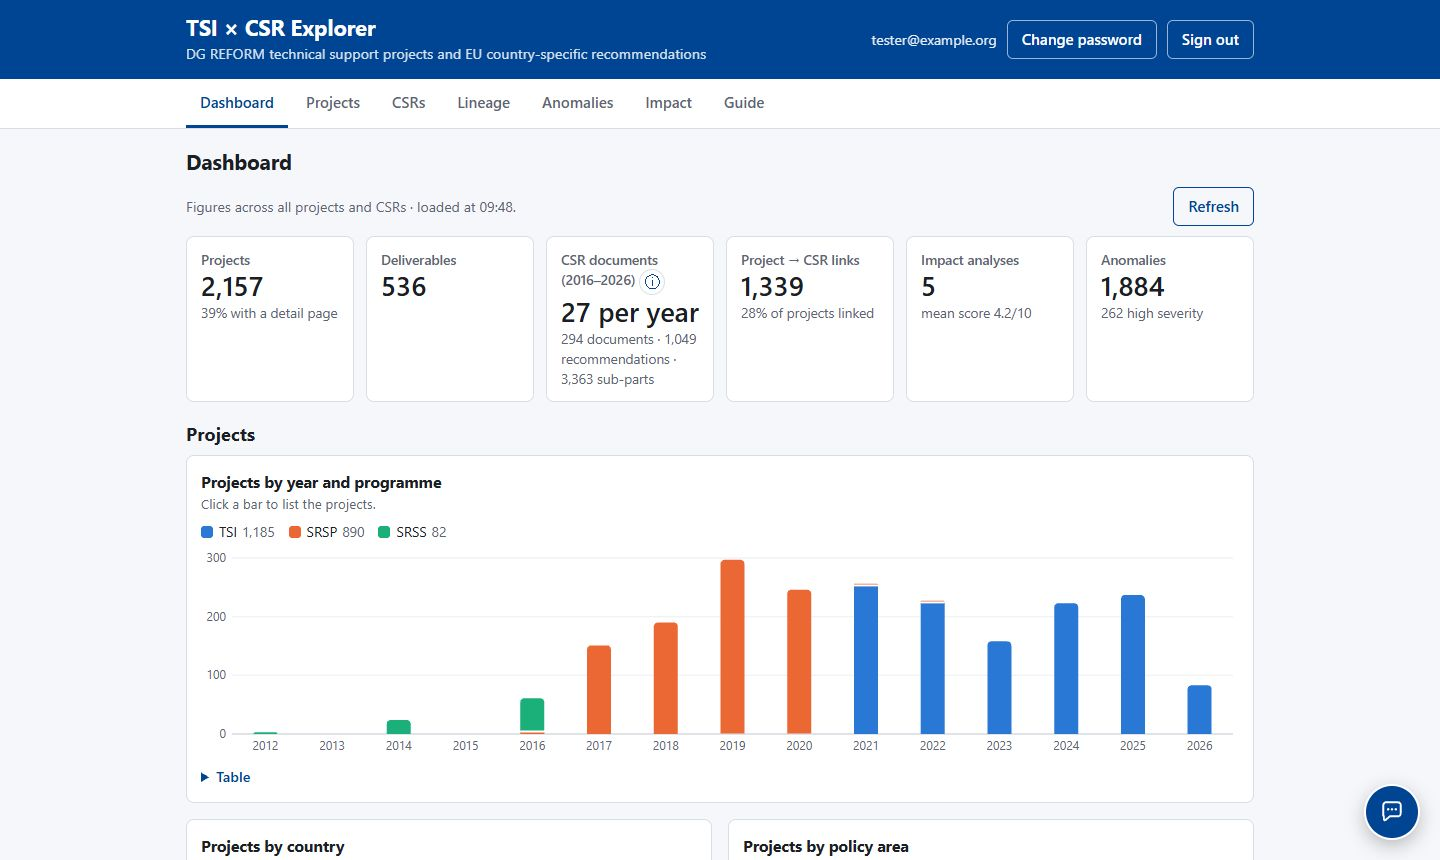
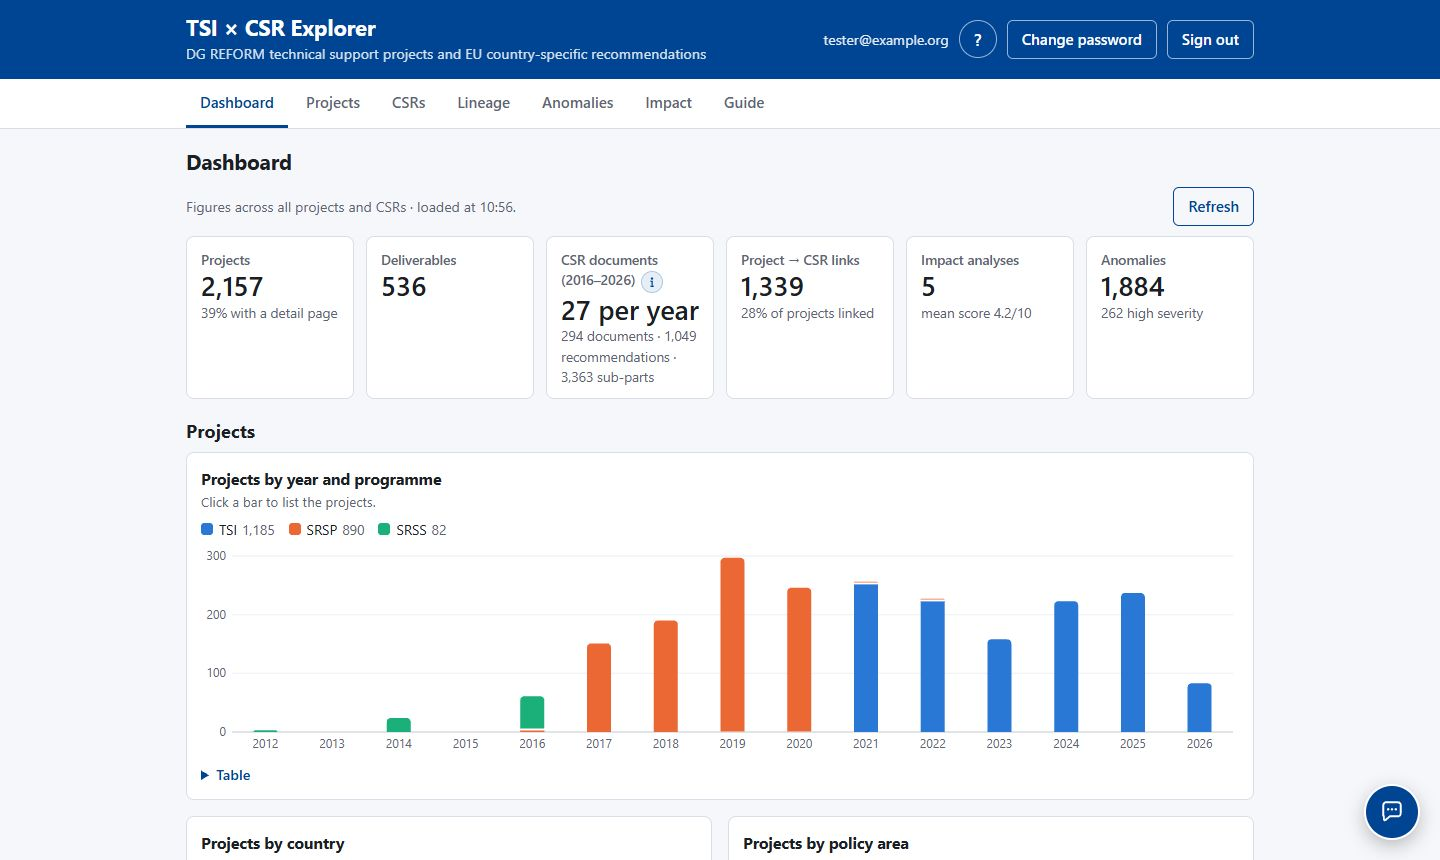
docs(web): guide mis a jour (Lineage Sankey et By country, revue des liens, briefing pays, export Excel, donnees d'usage)
- scenario : nouvelle etape Sankey (toutes les pays), By country actuel (5 etapes), revue d'un lien,
  briefing pays ; captures reprises le 23 octobre 2026 sur les donnees reelles (04-lineage-sankey,
  09-briefing, 10-review ajoutees), chiffres relus sur les captures
- essentiels (Lineage, revue), autres cas (Sankey direct, Network, liens a revoir), questions et
  « bon a savoir » ajustes
- reference : section Excel reporting (#guide/reporting), niveau de lien dans Lineage, limites du
  briefing, lots IA locaux dans Donnees et mises a jour, glossaire complete ; ancres existantes conservees

diff --git a/web/app.js b/web/app.js
@@ -2511,8 +2511,9 @@ const GUIDE = [
     <li>If your session expires, you are asked to sign in again; nothing you were reading is changed.</li>
     <li><strong>Usage data</strong>: to improve the explorer, the pages you open and the time spent on them are recorded with your
       e-mail address; only administrators can see them (<a href="#guide/usage">details</a>).</li></ul>
-    <p>The tabs give the main views: Dashboard, Projects, CSRs, Lineage, Anomalies, Impact and this Guide. The round button at the
-      bottom right opens the <a href="#guide/assistant">assistant</a> on any page.</p>` },
+    <p>The tabs give the main views: Dashboard, Projects, CSRs, Lineage, Anomalies, Impact and this Guide (administrators also see
+      an Admin tab). The <em>?</em> button in the header brings you back to this guide, and the round button at the bottom right opens
+      the <a href="#guide/assistant">assistant</a> on any page.</p>` },
   { id: "projects", title: "Projects", html: () => `
     <p>All projects of the Technical Support Instrument (TSI) and of its predecessors SRSP and SRSS.</p>
     <ul><li><strong>Filters</strong>: title search, country, programme, years, policy area, &ldquo;Linked to a CSR&rdquo; and
@@ -2520,10 +2521,10 @@ const GUIDE = [
       the address of the page keeps the filters, so you can bookmark or share it.</li>
     <li><strong>Project page</strong>: programme, year, countries, policy area, results, deliverables, an AI-generated summary,
       the CSRs it supports (AI-assessed), the latest impact analysis and a link to the lineage network.</li>
-    <li><strong>Export to Excel</strong>: downloads the projects matching the current filters as a workbook
-      (<code>tsi-reporting-YYYY-MM-DD.xlsx</code>) with three sheets: <em>Projects</em> (one row per project, with its links,
-      latest impact score, anomalies and review summary), <em>Links</em> (one row per project–CSR sub-part link, with the AI rationale
-      and the latest review) and <em>Notes</em> (date, filters and definitions).</li>
+    <li><strong>Export to Excel</strong>: downloads the projects matching the current filters, with their links, as a workbook
+      (see <a href="#guide/reporting">Excel reporting</a>).</li>
+    <li><strong>Links to review</strong>: the button above the list opens the project–CSR links waiting for a review
+      (see <a href="#guide/reviews">Link review</a>).</li>
     <li><strong>Detail page or listed only</strong>: a project with a <em>detail page</em> has its own page on
       reforms-investments.ec.europa.eu (description, results, deliverables). Many projects are only <em>listed</em>: known by
       their title in a TSI country factsheet or in the SRSP list of approved requests (PDF). Their page shows that listing as the
@@ -2601,7 +2602,10 @@ const GUIDE = [
       &ldquo;Show CSRs without a project&rdquo;. On a narrow screen the network scrolls sideways inside its card.
       The table of links below the graph (with the results, deliverables and impact score of each project) can be downloaded as CSV.</li></ul>
     <h4>Links</h4>${infoHtml("links")}
-    <h4>Initial request</h4>${infoHtml("request")}` },
+    <h4>Link level</h4>${infoHtml("linklevel")}
+    <h4>Initial request</h4>${infoHtml("request")}
+    <p>The <em>Country briefing</em> button at the top of By country downloads a Word document on the country shown
+      (see <a href="#guide/briefing">Country briefing</a>).</p>` },
   { id: "dashboard", title: "Dashboard", html: () => `
     <p>Figures across all projects and CSRs, loaded once per session (<em>Refresh</em> reloads them).</p>
     <ul><li><strong>Tiles</strong>: projects (share with a detail page), deliverables, CSR documents (27 per year, with the total
@@ -2650,8 +2654,22 @@ const GUIDE = [
       the document. <em>Cancel</em> or Escape stops it; nothing is saved.</li>
     <li><strong>File</strong>: <code>briefing-&lt;country&gt;-&lt;from&gt;-&lt;to&gt;[-&lt;policy area&gt;].docx</code>, styled like the
       other Word exports.</li>
-    <li><strong>Cost</strong>: the AI summary is one model call (a few cents); untick <em>Include AI summary</em> for a data-only document.</li></ul>
+    <li><strong>Cost</strong>: the AI summary is one model call (a few cents); untick <em>Include AI summary</em> for a data-only document.</li>
+    <li><strong>Limits</strong>: the AI parts (key messages, comments, suggestions for the gaps) are written only from the figures of
+      the document and marked as AI-generated; the figures themselves come from the explorer's data, with the same caveats (AI-assessed
+      links, projects known only by their title not linked).</li></ul>
     ${infoHtml("briefing")}` },
+  { id: "reporting", title: "Excel reporting", html: () => `
+    <p><em>Export to Excel</em>, on the Projects tab and on <em>Links to review</em>, downloads a workbook built in your browser
+      (<code>tsi-reporting-YYYY-MM-DD.xlsx</code>, bold and frozen header rows):</p>
+    <ul><li><strong>Projects</strong>: one row per project matching the current filters, with its programme, year, countries, policy
+      area, results, deliverables, its linked recommendations and CSR sub-parts with the strongest link level, latest impact score,
+      anomalies and a summary of the reviews of its links, and a link back to its page in the explorer.</li>
+    <li><strong>Links</strong>: one row per project–CSR sub-part link of these projects, with the level, the AI rationale, the basis
+      (project text or title only) and the latest review (status, reviewer, date, comment).</li>
+    <li><strong>Notes</strong>: export date, the filters applied, who exported it, and the definitions of the columns.</li></ul>
+    <p>From <em>Links to review</em>, the export keeps the links matching that view's filters. Other exports: CSV for the anomalies
+      and the lineage table, Word for impact reports, assistant conversations and country briefings.</p>` },
   { id: "data", title: "Data and updates", html: () => `
     <ul><li><strong>Sources</strong>: reforms-investments.ec.europa.eu (TSI projects, detail pages, country factsheets, deliverables),
       the SRSP list of approved requests (PDF), and the ECFIN CSR database (2016–2025 recommendations and their assessments) and the Commission's 2026 country-specific
@@ -2659,7 +2677,12 @@ const GUIDE = [
     <li><strong>Monthly update</strong>: an automated run each month adds new or changed projects, publications, CSRs and links
       (incremental: only what changed is re-read; a full check runs quarterly), then refreshes the anomalies and this explorer.</li>
     <li><strong>Data releases</strong>: each update is also published as a dated data release (data-YYYY-MM-DD) in the project's
-      repository, so the figures of a given date can be retrieved.</li></ul>` },
+      repository, so the figures of a given date can be retrieved.</li>
+    <li><strong>AI batches</strong>: besides the analyses run from this page, impact analyses are also run in batches by the data
+      team (source <em>local</em> in the lists), and the related past projects of the 2026 recommendations are suggested by a batch
+      run as well. Both are loaded into the explorer with the other data at the next update.</li>
+    <li><strong>Your contributions</strong>: link reviews are written directly by the users and are never overwritten by the
+      updates.</li></ul>` },
   { id: "limits", title: "Limits and good practice", html: () => `
     <ul><li>Summaries, project–CSR links, assistant answers and impact analyses are <strong>generated by AI</strong>: useful to find
       and compare, not authoritative. Verify against the sources (project page, deliverables, CSR text) before use.</li>
@@ -2698,24 +2721,35 @@ const GUIDE = [
     <dt>Detail page</dt><dd>A project's own page on reforms-investments.ec.europa.eu; projects without one are known only from a listing.</dd>
     <dt>Sub-part</dt><dd>One distinct request inside a recommendation; the level at which project links are assessed.</dd>
     <dt>Lineage</dt><dd>The chain from a CSR document to its recommendations, the country's initial request (pending the JIRA export),
-      the projects that support them and their outcome, shown as a network per country.</dd>
-    <dt>Initial request</dt><dd>The Member State's request for support, in which it declares the CSRs it addresses; recorded in JIRA, not public.</dd></dl>` },
+      the projects that support them and their outcome: overviews of all countries (Sankey, Network, Sunburst) and a stage-by-stage
+      view per country.</dd>
+    <dt>Initial request</dt><dd>The Member State's request for support, in which it declares the CSRs it addresses; recorded in JIRA, not public.</dd>
+    <dt>Direct / partial link</dt><dd>Level of a project–CSR sub-part link assessed by AI: the project implements what the CSR asks
+      (direct), or contributes to one aspect or a precondition (partial).</dd>
+    <dt>Pair</dt><dd>One recommendation linked to one project, in the Lineage overviews; direct if at least one of its sub-part links is direct.</dd>
+    <dt>Review</dt><dd>A user's verdict on an AI-assessed link: confirmed, rejected or to review; shared with all users, with its history.</dd>
+    <dt>Related past project</dt><dd>A project of earlier years suggested by AI as working on the same issues as a 2026 recommendation;
+      a lead to verify, not a link.</dd>
+    <dt>Country briefing</dt><dd>A Word document on one country and period, built from the explorer's data, with an optional AI summary.</dd></dl>` },
 ];
 
 const GUIDE_IDS = GUIDE.map((s) => s.id);
 
 // Illustrated part of the guide (screenshots in web/guide/, relative paths: the site is served under a sub-path).
-// Screenshots taken on 20 Oct 2026 with the real data of that day; the figures quoted in the steps are read off them.
+// Screenshots taken on 23 Oct 2026 with the real data of that day; the figures quoted in the steps are read off them.
 const GUIDE_PROJECT = "technical-support-transforming-existing-fully-state-administered-funded-pension-scheme-lithuania";
-const GUIDE_SHOT_DATE = "20 October 2026";
+const GUIDE_SHOT_DATE = "23 October 2026";
 const GUIDE_ESSENTIALS = [
-  { icon: "▦", title: "Tabs", text: "Dashboard, Projects, CSRs, Lineage, Anomalies, Impact and Guide. The ? button in the header brings you back here." },
+  { icon: "▦", title: "Tabs", text: "Dashboard, Projects, CSRs, Lineage, Anomalies, Impact and Guide (plus Admin for administrators). The ? button in the header brings you back here." },
   { icon: "⚲", title: "Filters", text: "Each list has its filters (country, programme, years, text search…). The address of the page keeps them: bookmark or share it." },
-  { icon: "⇄", title: "Click through", text: "Bars, cards and names open the matching view: a country's projects, a CSR document, a project page, a lineage network." },
+  { icon: "⇄", title: "Click through", text: "Bars, ribbons, cards and names open the matching view: a country's projects, a CSR document, a project page, a lineage view." },
+  { icon: "⋔", title: "Lineage", text: "Sankey, Network and Sunburst show all countries at once; By country follows one country from its CSR documents to the projects and their outcome." },
   { icon: "info", title: "Definitions", text: "The round i buttons explain how a figure or a link level is defined, with a link to the reference below." },
+  { icon: "✓", title: "Your review", text: "Project–CSR links are assessed by AI: confirm or reject them with Review. Reviews are shared with all users, with their history." },
   { icon: "✦", title: "Assistant", text: "The round button at the bottom right opens the assistant beside any page. On a project or CSR page it offers to ask about it." },
-  { icon: "⎙", title: "Export", text: "Lists download as CSV, the projects and their links to Excel; impact reports, assistant conversations and country briefings export to Word." },
+  { icon: "⎙", title: "Export", text: "Projects and links to Excel, lists to CSV; impact reports, assistant conversations and country briefings to Word." },
 ];
+const LT_PROJECT_SEL = `sel=${encodeURIComponent(`project:${GUIDE_PROJECT}`)}`;
 const GUIDE_STEPS = [
   { img: "01-dashboard.jpg", to: "#dashboard", title: "Start from the big picture",
     alt: "Dashboard: tiles with the totals and the chart of projects by year and programme",
@@ -2737,19 +2771,32 @@ const GUIDE_STEPS = [
       recommendations). Below, each recommendation lists its sub-parts with their policy areas, assessment and linked projects:
       sub-part 1.6, &ldquo;social protection&rdquo;, is partially supported by the Lithuanian pension project followed in the
       next steps.` },
-  { img: "04-lineage.jpg", to: `#lineage?country=LT&sel=${encodeURIComponent(`project:${GUIDE_PROJECT}`)}`, title: "Follow the lineage",
-    alt: "Lineage network of Lithuania with the pension project pinned: its chain to two recommendations is highlighted",
-    text: `<em>Show in lineage network</em> draws the chain for the whole country. Lithuania, 2019–2025: 7 CSR documents,
-      25 recommendations (10 with at least one project), 23 projects and 35 recommendation–project pairs (11 direct) from 44
-      sub-part links. With the pension project pinned, its chain lights up: a solid line (direct link) to LT 2021 · CSR 1 and a
-      dashed line (partial link) to LT 2023 · CSR 1. In the <em>Outcome</em> column, on the project's row: its results status,
-      its deliverables and the pill <em>2/10</em>, its latest impact score.` },
+  { img: "04-lineage-sankey.jpg", to: "#lineage", title: "See where support goes, for all countries",
+    alt: "Lineage tab, Sankey view: countries, policy areas, programmes and outcomes of all recommendation–project pairs",
+    text: `The <strong>Lineage</strong> tab opens on the <em>Sankey</em>: for the CSRs of 2016–2025, 1,185 recommendation–project
+      pairs (391 recommendations, 597 projects, 27 countries, 34% direct) flow from the country of the recommendation to the policy
+      area of the project, its programme and its stated outcome. Croatia comes first with 90 pairs, Romania 84, Spain 82, and
+      Lithuania 64; TSI carries 948 pairs and 954 lead to results achieved. The CSR years and the link level (all, direct, partial)
+      filter the Sankey, the Network and the Sunburst alike; click a country to split it by CSR year.` },
+  { img: "04-lineage.jpg", to: `#lineage?view=country&country=LT&${LT_PROJECT_SEL}`, title: "Follow one country stage by stage",
+    alt: "Lineage By country, Lithuania, with the pension project pinned: its chain from two documents to its outcome is highlighted",
+    text: `<em>By country</em> follows the five stages for one country: CSR document → recommendation → initial request (a dashed
+      placeholder until the JIRA export) → project → outcome. Lithuania, 2019–2025: 7 CSR documents, 25 recommendations (10 with
+      at least one project), 35 recommendation–project pairs (11 direct) from 44 sub-part links and 23 projects. With the pension
+      project pinned, its chain lights up: a solid line (direct) to LT 2021 · CSR 1, a dashed line (partial) to LT 2023 · CSR 1,
+      and in the <em>Outcome</em> column: results achieved, 1 deliverable and the pill <em>2/10</em>, its latest impact score.` },
   { img: "05-project.jpg", to: `#project/${GUIDE_PROJECT}`, title: "Read the project page",
     alt: "Project page: Technical Support in transforming the existing fully state-administered funded pension scheme in Lithuania",
     text: `The project page gives the record (TSI, 2024, Lithuania, labour market and social protection, results achieved,
-      1 deliverable, detail page on the Commission's site), the AI summary (a project implemented by the ILO on the second
-      pension pillar) and the <strong>supported CSRs</strong>: 2, one direct (csr-LT-2021-1.4) and one partial (csr-LT-2023-1.6),
-      each with its rationale. The latest impact analysis is shown at the top: 2/10, weak, medium confidence, 7 Oct 2026.` },
+      1 deliverable, detail page on the Commission's site), the latest impact analysis (2/10, weak, medium confidence, 7 Oct 2026),
+      the AI summary (a project implemented by the ILO on the second pension pillar) and the <strong>supported CSRs</strong>:
+      2, one direct (csr-LT-2021-1.4) and one partial (csr-LT-2023-1.6), each with its rationale and its review status.` },
+  { img: "10-review.jpg", to: `#project/${GUIDE_PROJECT}`, title: "Confirm or reject the AI-assessed link",
+    alt: "Review dialog of the link between the pension project and csr-LT-2021-1.4, not reviewed yet",
+    text: `<em>Review</em>, next to each link, opens a short form: the link of the pension project to csr-LT-2021-1.4 is
+      <em>Not reviewed</em> yet. Choose Confirmed, Rejected or To review, add a comment if useful and save: the status is shared with
+      all users at once, and the history (who, when, why) stays in the form. <em>Links to review</em>, on the Projects tab, lists all
+      the links still to check; on the day of the screenshots none of the 1,339 links had been reviewed.` },
   { img: "06-impact.jpg", to: `#impact/${GUIDE_PROJECT}`, title: "Check the impact analysis",
     alt: "Impact tab: the saved analysis of the Lithuanian pension project, report open",
     text: `<em>Impact analysis</em> opens the project in the <strong>Impact</strong> tab. Its saved analysis (2/10, weak,
@@ -2757,6 +2804,12 @@ const GUIDE_STEPS = [
       parallel 2025 reform moved the second pillar in the opposite direction and the project closed two months early. Every
       claim cites numbered sources. <em>Export to Word</em> downloads the report; a new analysis takes 30 seconds to 2 minutes
       and has a cost.` },
+  { img: "09-briefing.jpg", to: "#lineage?view=country&country=LT", title: "Take a country briefing away",
+    alt: "Country briefing dialog opened from Lineage By country, Lithuania, years 2021 to 2026",
+    text: `<em>Country briefing</em>, at the top of the By country view (and of the CSRs tab once a country is chosen), builds a Word
+      document on the country: key figures, CSRs, lineage, results and impact, gaps and data quality. For Lithuania it proposes
+      2021–2026 and all policy areas; tick <em>Include AI summary</em> for key messages and comments written by AI from the figures
+      of the document (about 10 to 30 seconds, a small cost), then <em>Generate</em>.` },
   { img: "07-anomalies.jpg", to: "#anomalies", title: "Keep an eye on data quality",
     alt: "Anomalies tab: high and medium severity anomalies, first page",
     text: `The <strong>Anomalies</strong> tab lists rule-based checks of the Commission's publication. By default it shows the
@@ -2770,26 +2823,32 @@ const GUIDE_STEPS = [
       full texts) and are generated by AI: verify the cited sources.` },
 ];
 const GUIDE_CASES = [
-  { title: "Croatia's lineage", text: "One of the densest networks: 68 sub-part links from Croatian recommendations to projects.", to: "#lineage?country=HR", cta: "Open the network" },
-  { title: "Best-covered country", text: "Belgium has the highest share of recommendations supported by a project: 65% (22 of 34).", to: "#lineage?country=BE", cta: "See Belgium" },
+  { title: "Direct links only", text: "The Sankey with the direct pairs only: 399 pairs, 227 recommendations and 282 projects.", to: "#lineage?view=sankey&level=direct", cta: "Open the Sankey" },
+  { title: "Croatia, stage by stage", text: "One of the densest countries: 73 recommendation–project pairs from 78 sub-part links (2019–2025), 35 projects.", to: "#lineage?view=country&country=HR", cta: "Open By country" },
+  { title: "Best-covered country", text: "Belgium has the highest share of recommendations supported by a project: 65% (22 of 34).", to: "#lineage?view=country&country=BE", cta: "See Belgium" },
+  { title: "Projects that bridge countries", text: "The Network shows the projects linked to recommendations of several countries.", to: "#lineage?view=network", cta: "Open the Network" },
   { title: "Highest impact score", text: "Barnahus Slovenia (SRSP 2019), support for children victims of violence: 8/10, strong.", to: "#impact/barnahus-slovenia-supporting-children-victims-violence", cta: "Read the analysis" },
-  { title: "A multi-country project", text: "Inclusive education in Portugal, Italy and Spain: one project linked to four CSRs of three countries.", to: "#project/combatting-disparities-access-inclusive-education-portugal-italy-and-spain", cta: "Open the project" },
+  { title: "A multi-country project", text: "Inclusive education in Portugal, Italy and Spain: one project linked to four CSR sub-parts of three countries.", to: "#project/combatting-disparities-access-inclusive-education-portugal-italy-and-spain", cta: "Open the project" },
+  { title: "Links still to check", text: "Every AI-assessed link not reviewed, to review or rejected, with quick Confirm and Reject buttons.", to: "#reviews", cta: "Open the list" },
   { title: "Search the 2026 recommendations", text: "Full-text search in all recommendations, here “pension” in the 2026 documents.", to: "#csrs?view=recs&year=2026&q=pension", cta: "Run the search" },
   { title: "Possible duplicates", text: "Projects that look published twice: a quick check before counting projects.", to: "#anomalies?type=possible_duplicate&severity=all", cta: "See the list" },
 ];
 const GUIDE_ASK = [
   "Which projects support Lithuania's recommendations on pensions?",
   "What CSRs did Lithuania receive in 2023, and how were they assessed?",
+  "What do Croatia's 2026 recommendations ask on public administration?",
   "Which countries have projects on e-health or the digitalisation of healthcare?",
   "Which projects work on public procurement in the Baltic states?",
   ...CHAT_EXAMPLES.slice(0, 2),
 ];
 const GUIDE_TIPS = [
-  "Summaries, project–CSR links, assistant answers and impact analyses are generated by AI: verify against the sources before use.",
-  "The 2026 recommendations are Commission proposals: not yet assessed and not yet linked to projects.",
+  "Summaries, project–CSR links, assistant answers, impact analyses, related past projects and the briefing summaries are generated by AI: verify against the sources before use.",
+  "The 2026 recommendations are Commission proposals: not yet assessed and not yet linked to projects; related past projects suggested by AI are leads, not links.",
   "Projects known only by their title are not linked yet: no link does not mean no support.",
+  "Your reviews are shared with all users at once: add a short comment when you reject a link.",
   "Impact statistics rest on the analyses run so far (5 in October 2026): indicative only.",
   "Anomalies are deterministic checks of the publication, not judgements on the projects.",
+  "To improve the explorer, the pages you open and the time spent on them are recorded with your e-mail address; only administrators can see them.",
   "The data are updated every month: the figures in the screenshots may have changed since.",
 ];
 // Parts of the guide page, reachable as #guide/<id> like the reference sections.
@@ -2826,7 +2885,7 @@ function guideIllustratedHtml() {
   return hero
     + guidePart("essentials", "The essentials in one minute", ess)
     + guidePart("scenario", "Scenario: from a CSR document to a project and its impact", steps,
-      "Follow one thread through the data: Lithuania's 2023 recommendations, the projects that support them and the impact of one of them, a TSI project on the second pension pillar.")
+      "Follow one thread through the data: Lithuania's 2023 recommendations, where support goes across all countries, the projects that support Lithuania's recommendations, the review of an AI-assessed link and the impact of one project, a TSI project on the second pension pillar, then a country briefing to take away.")
     + guidePart("cases", "Other cases to explore", cases)
     + guidePart("ask", "Ideas of questions for the assistant", ask)
     + guidePart("tips", "Good to know", tips);
